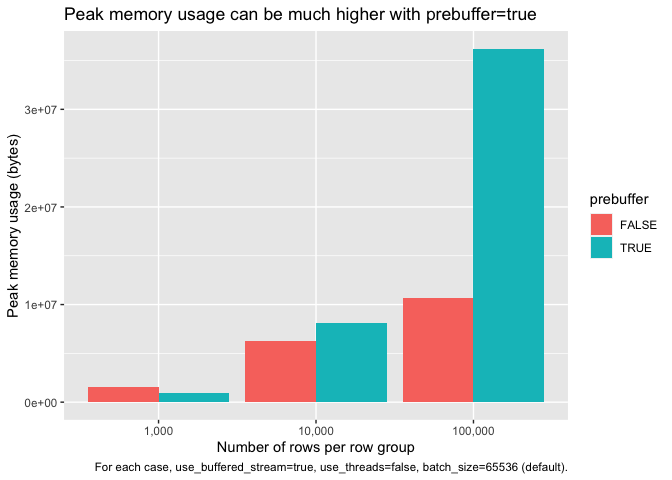
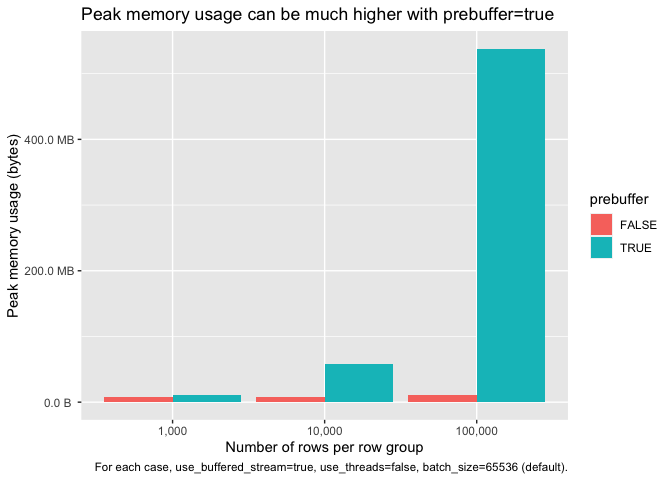
Test on a larger file

diff --git a/generate_data.py b/generate_data.py
@@ -19,7 +19,7 @@ schema = pa.schema({"x": pa.float64(), "y": pa.float64(), "a": pa.int32(), "id":
 
 parser = argparse.ArgumentParser()
 parser.add_argument("--rows-per-group", type=int, default=200_000)
-parser.add_argument("--n-groups", type=int, default=10)
+parser.add_argument("--n-groups", type=int, default=200)
 args = parser.parse_args()
 
 with pq.ParquetWriter('tall.parquet', schema)  as writer:

diff --git a/readme.md b/readme.md
@@ -15,84 +15,10 @@ To minimize memory use:
 
 ## Analysis
 
-``` r
-library(arrow)
-library(ggplot2)
-library(dplyr)
-
-data <- read_json_arrow("data.jsonl") %>%
-  mutate(
-    use_threads = as.logical(use_threads),
-    use_buffered_stream = as.logical(use_buffered_stream),
-    prebuffer = as.logical(prebuffer)
-  )
-```
-
-``` r
-data %>%
-  filter(use_buffered_stream & !use_threads & batch_size == 65536) %>%
-  ggplot(aes(x = as.factor(scales::comma(row_group_size)), y = max_memory, fill = prebuffer)) + 
-    geom_col(position = "dodge") +
-    labs(
-      title="Peak memory usage can be much higher with prebuffer=true",
-      x = "Number of rows per row group",
-      y = "Peak memory usage (bytes)",
-      caption = "For each case, use_buffered_stream=true, use_threads=false, batch_size=65536 (default)."
-    )
-```
-
 ![](readme_files/figure-gfm/prebuffer-1.png)
-
-``` r
-data %>%
-  filter(use_buffered_stream & !use_threads & !prebuffer) %>%
-  ggplot(aes(x = as.factor(batch_size), y = max_memory)) + 
-    geom_col() +
-    facet_grid(~ row_group_size, labeller = label_both) + 
-    labs(
-      title="Peak memory usage determined by row_group_size",
-      subtitle="Small batch size mitigates effect of large row groups",
-      x = "Batch size (rows)",
-      y = "Peak memory usage (bytes)",
-      caption = "For each case, use_buffered_stream=true, use_threads=false, prebuffer=false."
-    )
-```
 
 ![](readme_files/figure-gfm/group-size-1.png)
 
-``` r
-data %>%
-  filter(use_threads & batch_size == 65536 & !prebuffer) %>%
-  # Don't show extraneous data points
-  filter(use_buffered_stream == 0 | buffer_size == 16384) %>%
-  mutate(buffered_stream = as.factor(ifelse(use_buffered_stream == 1, 
-    paste(scales::comma(buffer_size), "bytes"), "off"
-  ))) %>%
-  ggplot(aes(x = as.factor(buffered_stream), y = max_memory)) + 
-    geom_col() +
-    facet_grid(~ row_group_size, labeller = label_both) + 
-    labs(
-      title="enabled_buffered_stream reduces memory usage for larger row groups",
-      x = "size of stream buffer",
-      y = "Peak memory usage (bytes)",
-      caption = "For each case, use_threads=true, prebuffer=false, batch_size=65,536 (default)."
-    )
-```
-
 ![](readme_files/figure-gfm/buffered-stream-1.png)
-
-``` r
-data %>%
-  filter(use_buffered_stream & !prebuffer & batch_size == 65536) %>%
-  ggplot(aes(x = use_threads, y = max_memory)) + 
-    geom_col() +
-    facet_grid(~ row_group_size, labeller = as_labeller(function(x) paste0("row_group_size=", x))) + 
-    labs(
-      title="Peak memory usage unaffected by use_threads",
-      x = "use_threads=",
-      y = "Peak memory usage (bytes)",
-      caption = "In all cases shown, use_buffered_stream=true, prebuffer=false, and batch_size=65,536 (default)."
-    )
-```
 
 ![](readme_files/figure-gfm/use-threads-1.png)
